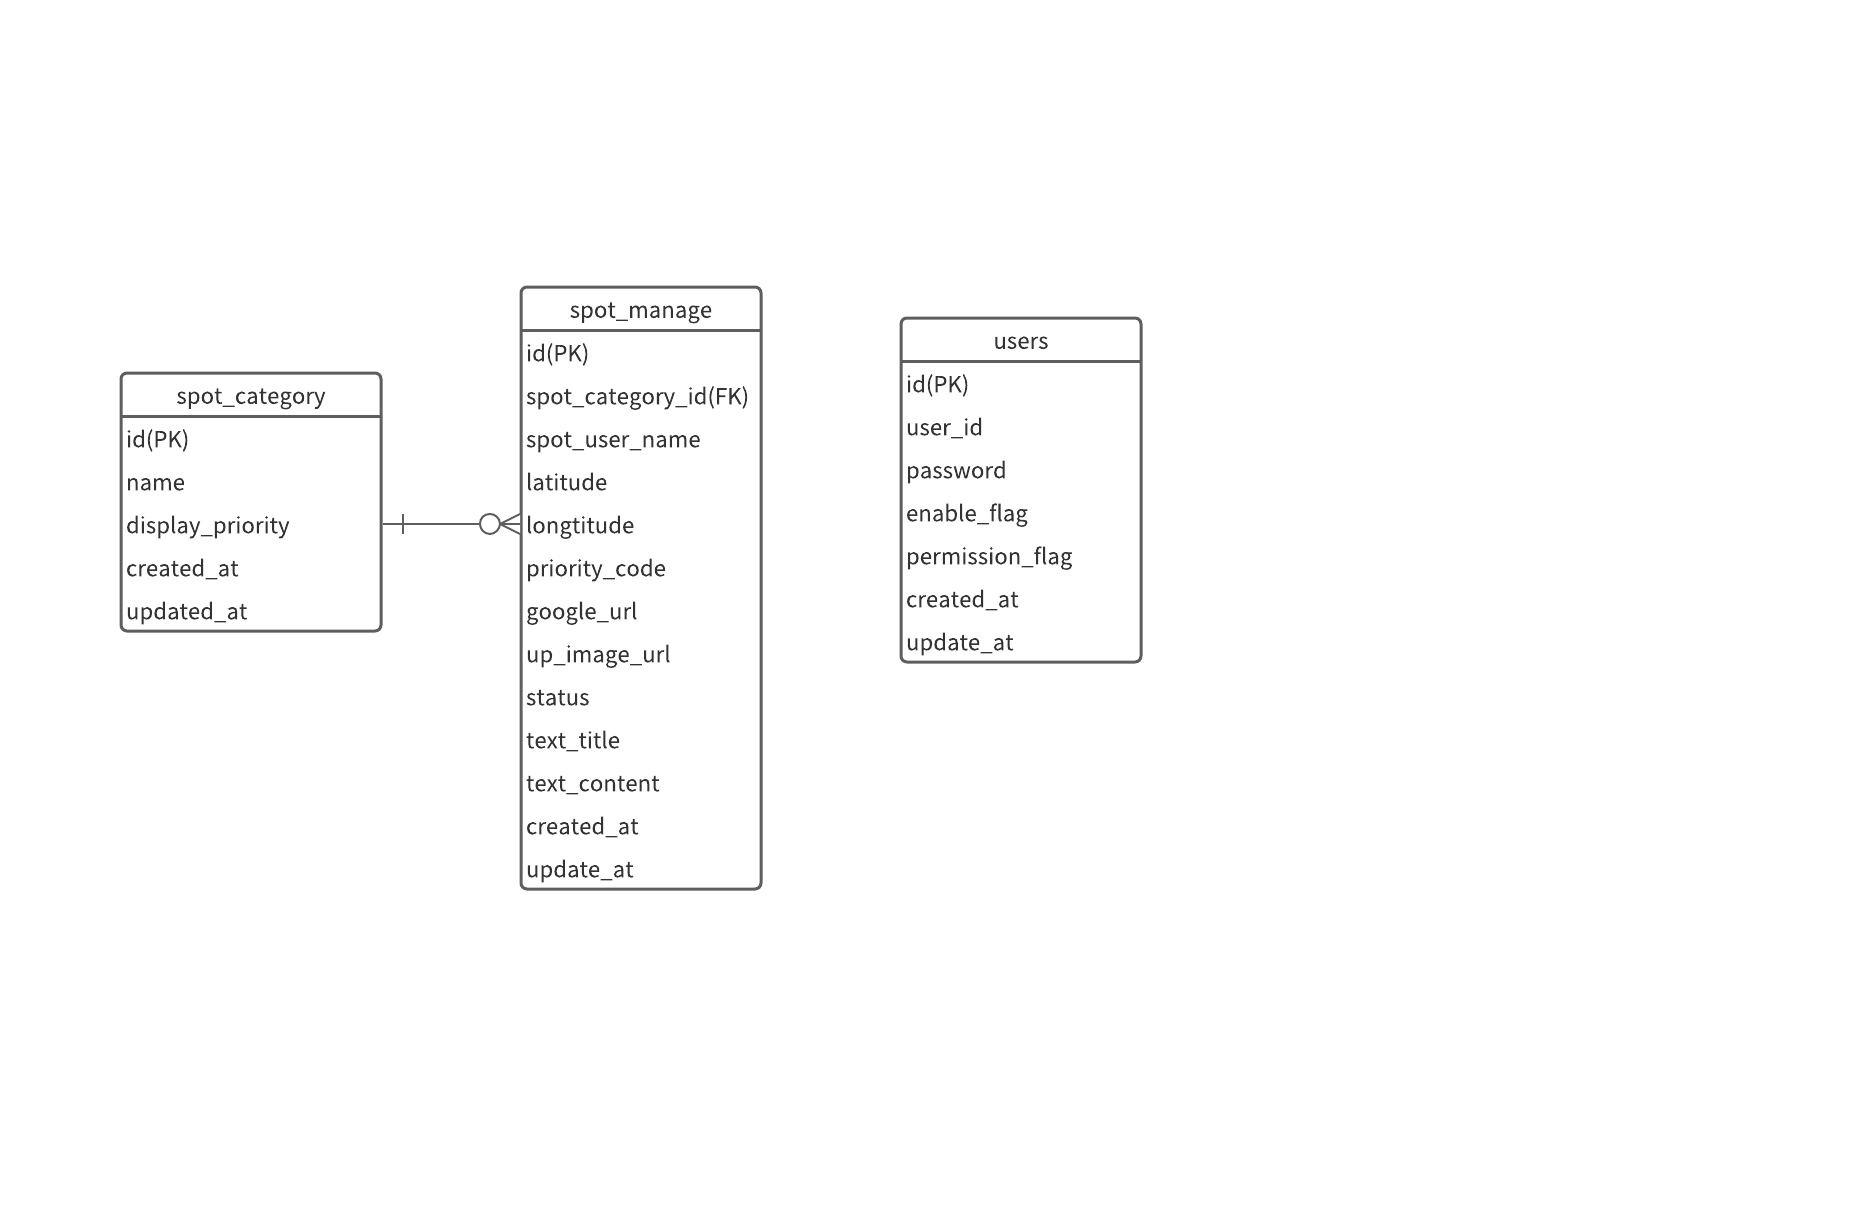
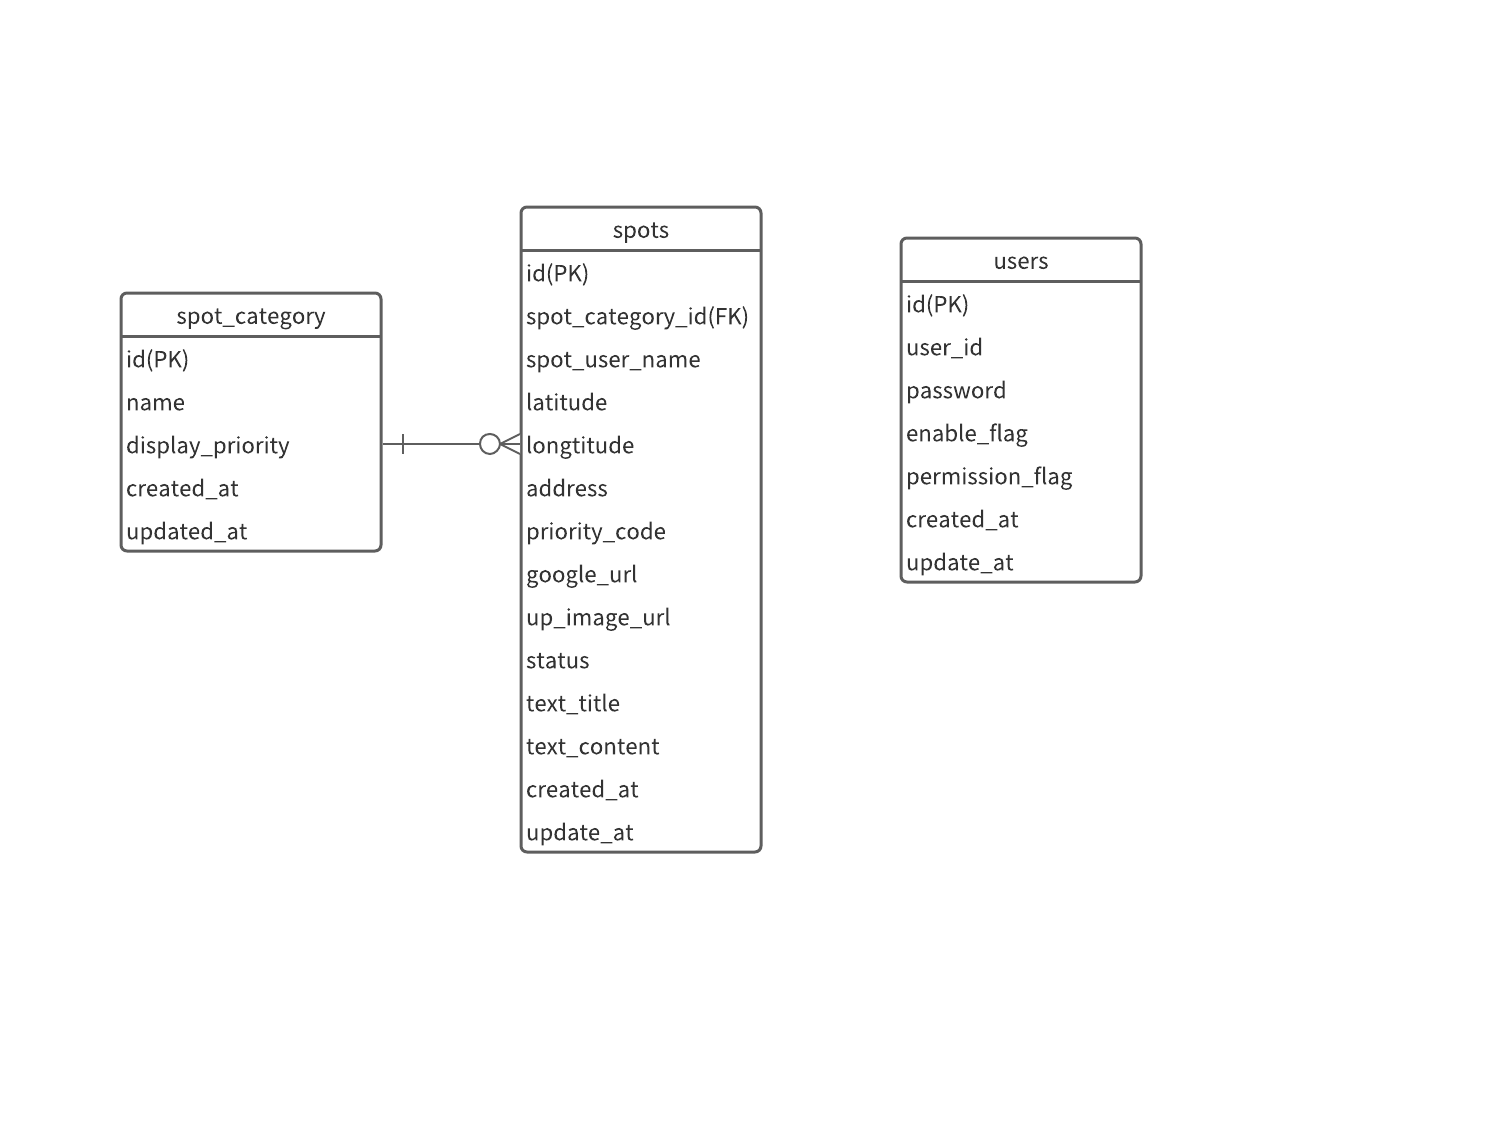
テーブル変更

Changed region(s): [[0.062, 0.1546, 0.7744, 0.773], [0.6195, 0.1855, 0.7744, 0.2473], [0.7434, 0.2473, 0.7744, 0.2783]]

diff --git a/基本設計書.md b/基本設計書.md
@@ -545,12 +545,12 @@
 ### テーブル一覧
 | No | テーブル名             | テーブル概要               |
 |----|-------------------|----------------------|
-| 1  | spot_manage     | スポット管理                |
+| 1  | spots     | スポット管理                |
 | 2  | spot_category          | 投稿カテゴリ |
 | 3  | users             | webコンソールユーザー               |
 
 ### テーブル定義
-#### spot_manageテーブル
+#### spotsテーブル
 | No | カラム名               | データ型                     | 長さ    | PK | NOT NULL  | UNIQUE | FK | オートインクリメント | デフォルト | INDEX | カラム説明               | 備考                       |
 |----|--------------------|--------------------------|-------|----|-----------|--------|----|------------|-------|-------|---------------------|--------------------------|
 | 1  | id                 | serial                   | 4バイト  | 〇  | 〇         | 〇      | -  | 〇          | -     | 〇     | スポットid                | フレームワーク標準                       |
